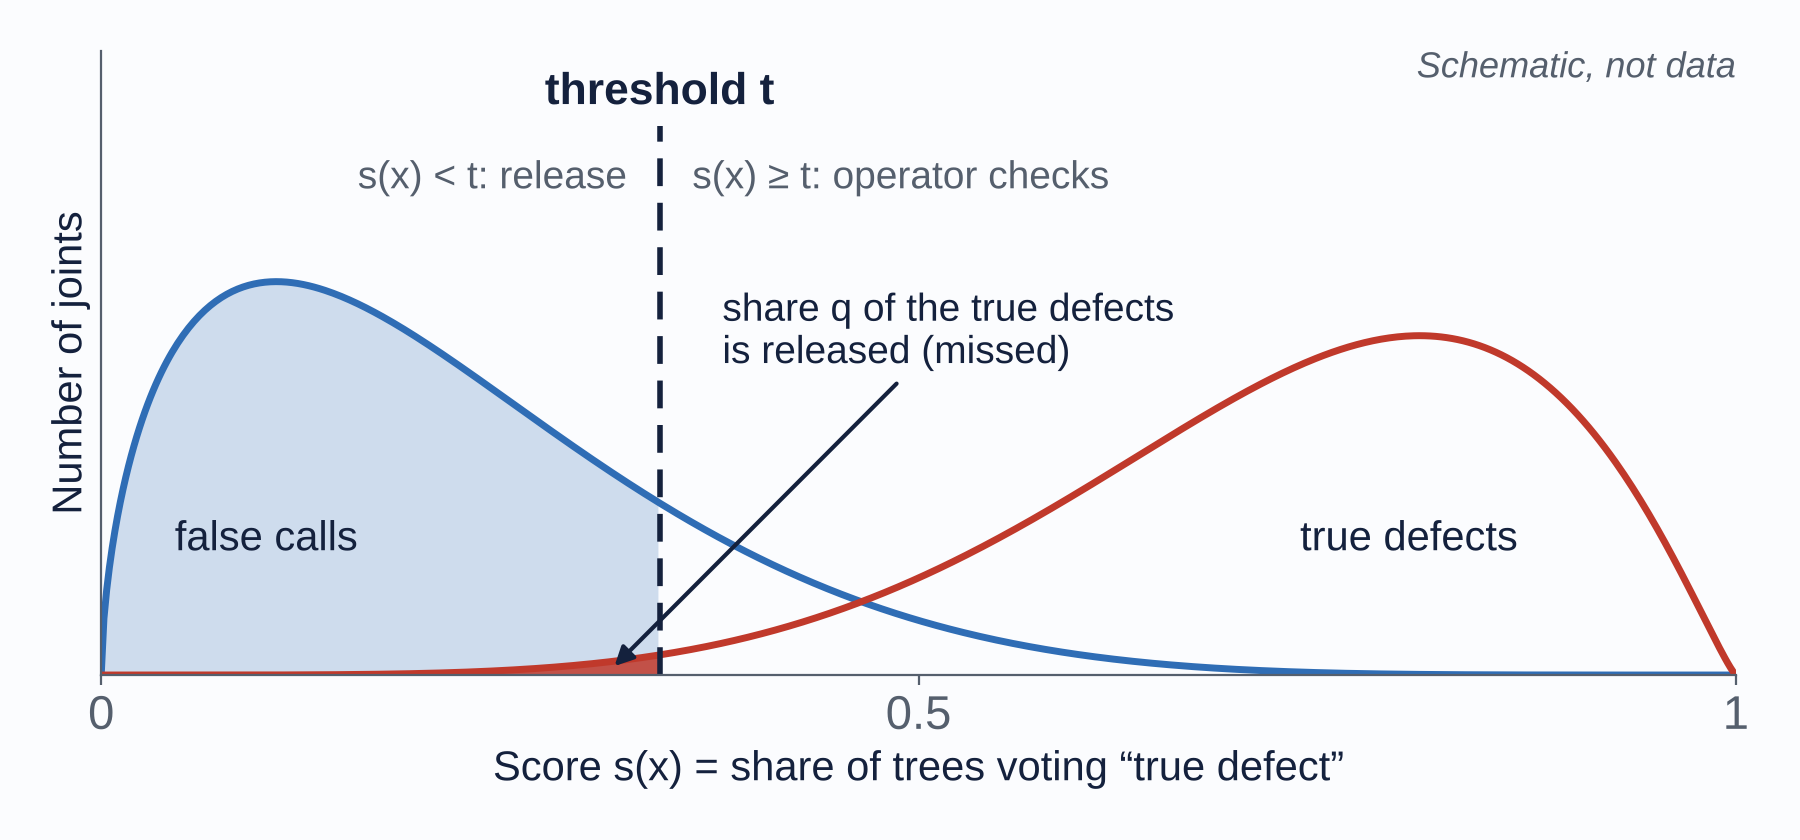
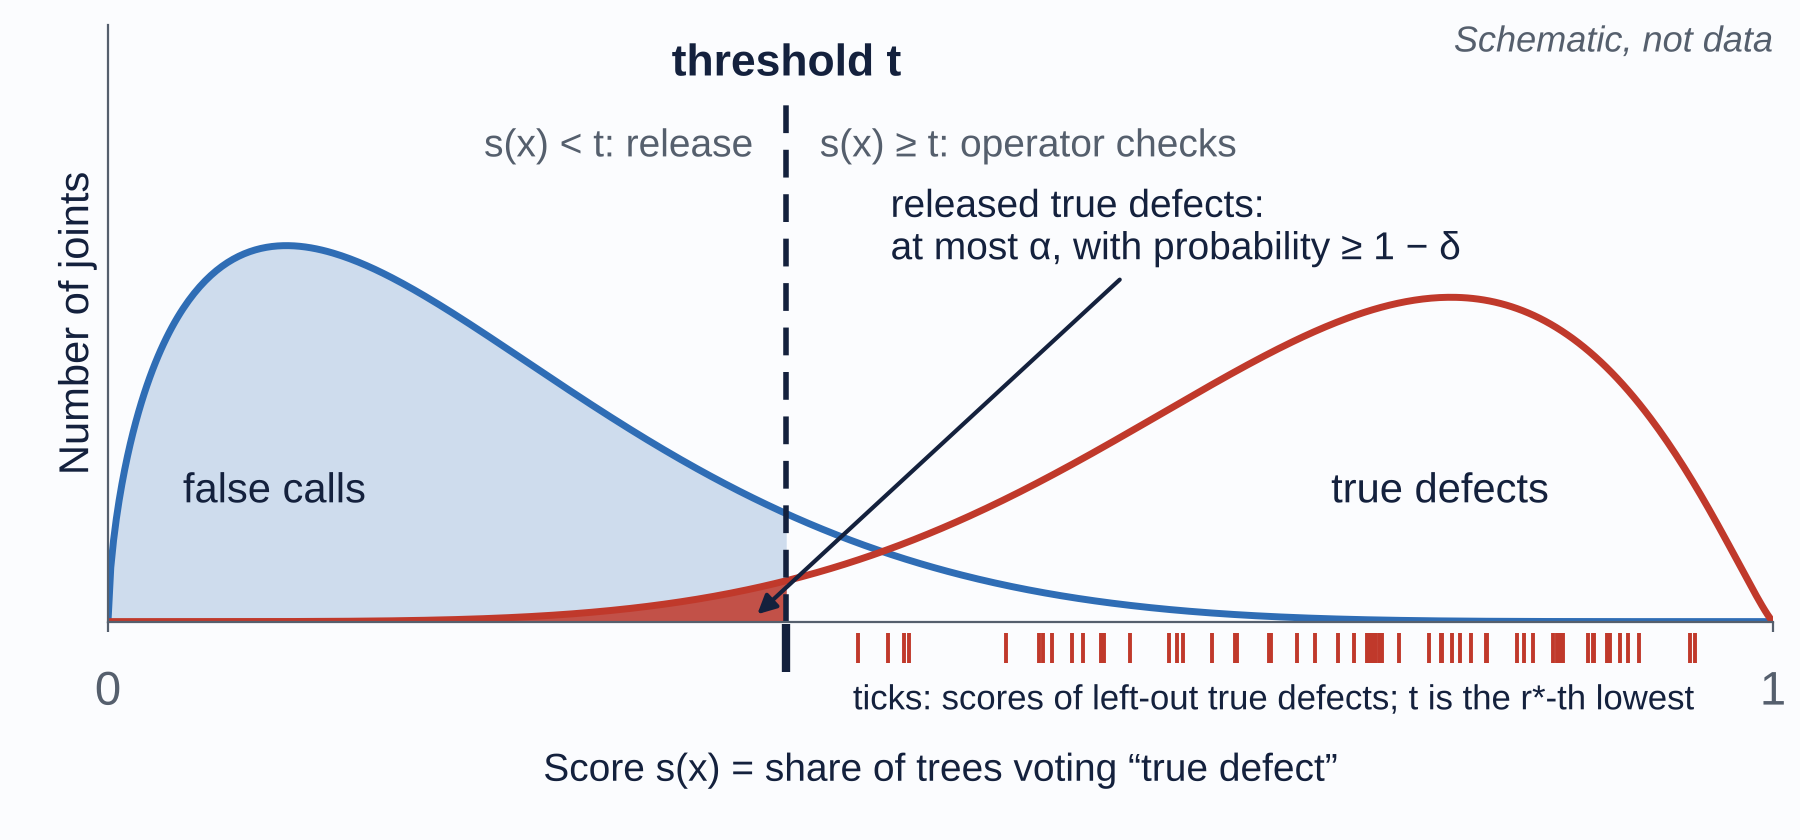
P3 slides: threshold schematic follows the Neyman-Pearson order-statistic rule

diff --git a/scripts/make_p3_slide_figures.py b/scripts/make_p3_slide_figures.py
@@ -310,11 +310,12 @@ def drift_evidence():
 
 
 def np_threshold():
-    """Schematic, no data: the threshold t is the q-quantile of the scores of the true defects."""
+    """Schematic, no data: the threshold t is an order statistic of the scores of left-out true defects [14, Alg. 1]."""
     from scipy.stats import beta
-    q = 0.01
     td, fc = beta(6, 2.2), beta(1.6, 6)                      # illustrative shapes only
-    t = td.ppf(q)
+    rng = np.random.default_rng(3)
+    left_out = np.sort(td.rvs(60, random_state=rng))         # scores of left-out true defects (illustration)
+    t = left_out[0]
     x = np.linspace(0, 1, 600)
     fig, ax = plt.subplots(figsize=(9, 4.2))
     ax.fill_between(x, fc.pdf(x), where=x <= t, color=BLUE, alpha=0.22, lw=0)
@@ -322,20 +323,25 @@ def np_threshold():
     ax.plot(x, fc.pdf(x), color=BLUE, lw=2.5)
     ax.plot(x, td.pdf(x), color=RED, lw=2.5)
     top = 5.0
+    ax.plot(left_out, np.full(60, -0.22), ls="none", marker="|", ms=11, mew=1.4, color=RED, clip_on=False)
+    ax.plot([t], [-0.22], ls="none", marker="|", ms=17, mew=3, color=NAVY, clip_on=False)
     ax.plot([t, t], [0, top * 0.88], color=NAVY, lw=2, ls=(0, (5, 3)))
     ax.text(t, top * 0.90, "threshold t", ha="center", va="bottom", fontsize=16, color=NAVY, fontweight="bold")
     ax.text(t - 0.02, top * 0.78, "s(x) < t: release", ha="right", fontsize=14, color=GREY)
     ax.text(t + 0.02, top * 0.78, "s(x) ≥ t: operator checks", ha="left", fontsize=14, color=GREY)
     ax.text(0.045, 1.0, "false calls", ha="left", fontsize=15, color=NAVY)
     ax.text(0.80, 1.0, "true defects", ha="center", fontsize=15, color=NAVY)
-    ax.annotate("share q of the true defects\nis released (missed)", xy=(t - 0.03, 0.04), xytext=(0.38, 2.75), fontsize=14, color=NAVY,
-                ha="left", va="center", arrowprops={"arrowstyle": "-|>", "color": NAVY, "lw": 1.5})
+    ax.annotate("released true defects:\nat most α, with probability ≥ 1 − δ", xy=(t - 0.02, 0.03), xytext=(0.47, 3.3), fontsize=14,
+                color=NAVY, ha="left", va="center", arrowprops={"arrowstyle": "-|>", "color": NAVY, "lw": 1.5})
+    ax.text(0.70, -0.66, "ticks: scores of left-out true defects; t is the r*-th lowest", ha="center", va="center", fontsize=12.5, color=NAVY)
     ax.set_xlim(0, 1); ax.set_ylim(0, top)
     ax.set_yticks([]); ax.set_ylabel("Number of joints", fontsize=15)
-    ax.set_xticks([0, 0.5, 1]); ax.set_xticklabels(["0", "0.5", "1"])
-    ax.set_xlabel("Score s(x) = share of trees voting “true defect”", fontsize=15)
+    ax.set_xticks([0, 1]); ax.set_xticklabels(["0", "1"]); ax.tick_params(axis="x", pad=14)
+    ax.text(0.5, -1.25, "Score s(x) = share of trees voting “true defect”", ha="center", va="center", fontsize=14, color=NAVY)
     ax.text(1.0, top, "Schematic, not data", ha="right", va="top", fontsize=13, color=GREY, style="italic")
-    save(fig, "np_threshold.png")
+    fig.subplots_adjust(left=0.06, right=0.985, top=0.97, bottom=0.26)
+    OUT.mkdir(parents=True, exist_ok=True)
+    fig.savefig(OUT / "np_threshold.png", dpi=200); plt.close(fig)
 
 
 if __name__ == "__main__":
